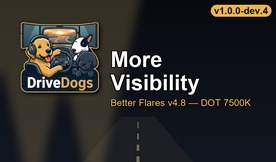
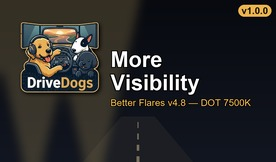
release 1.0.0 with the player-facing description of what changes and the required load order

Changed region(s): [[0.7536, 0.0, 0.9855, 0.1235]]

diff --git a/README.md b/README.md
@@ -4,7 +4,7 @@ An ETS2 add-on for **Better Flares v4.8 - Headlights DOT 7500k** (by Avelium). T
 farther and spread wider for more comfortable night driving, and the road stays readable in bad
 daytime conditions, while keeping Better Flares' realistic mood.
 
-**Status: `1.0.0-dev` (in-game tuning).** Better Flares v4.8 only; DOT 7500k only.
+**Status: `1.0.0`.** Better Flares v4.8 only; DOT 7500k only.
 
 ## Load order
 Top = highest priority in Mod Manager:
@@ -34,6 +34,9 @@ top of the script:
 | `default_scale_mult` | `default_scale` |
 | `scale_factor_mult` | `scale_factor` |
 | `inner_angle_add` / `outer_angle_add` | `flare_inner_angle` / `flare_outer_angle` |
+
+Released values, per-round (Tx) history and how to run a new tuning round: see
+[`docs/tuning.md`](docs/tuning.md).
 
 Aim (`*_rot`), `aspect` and masks are never touched. Only files a lever actually changes are
 written, and the run fails if any written file references a mask the base pack doesn't ship.
